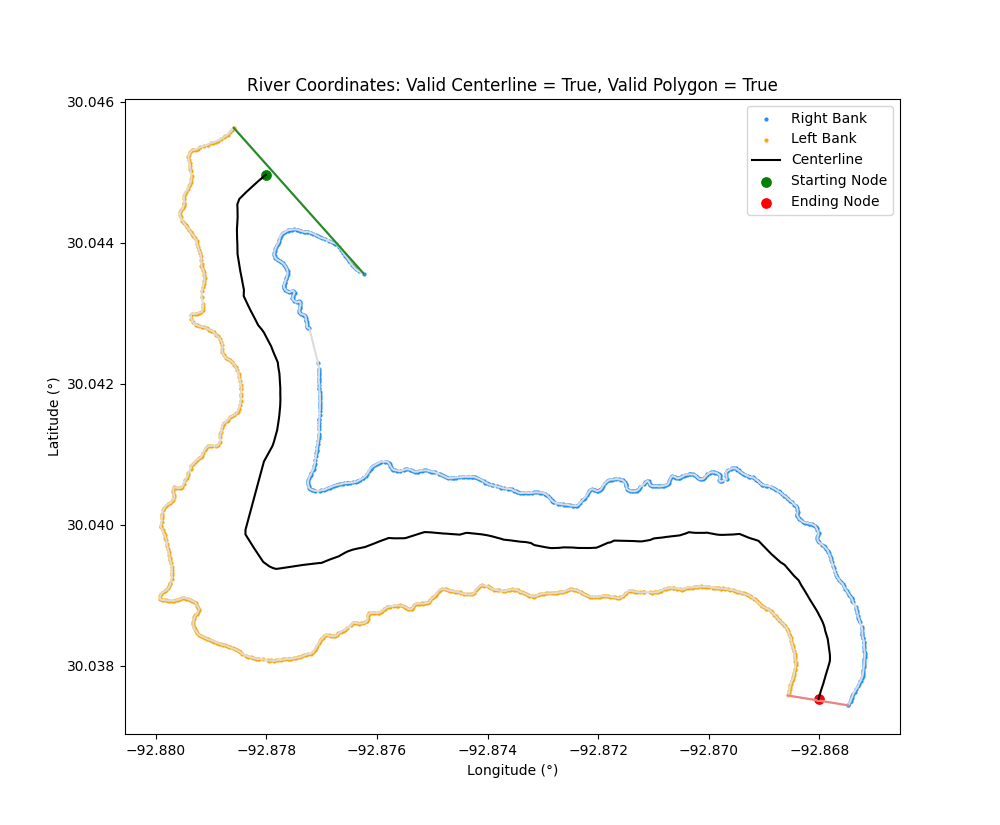
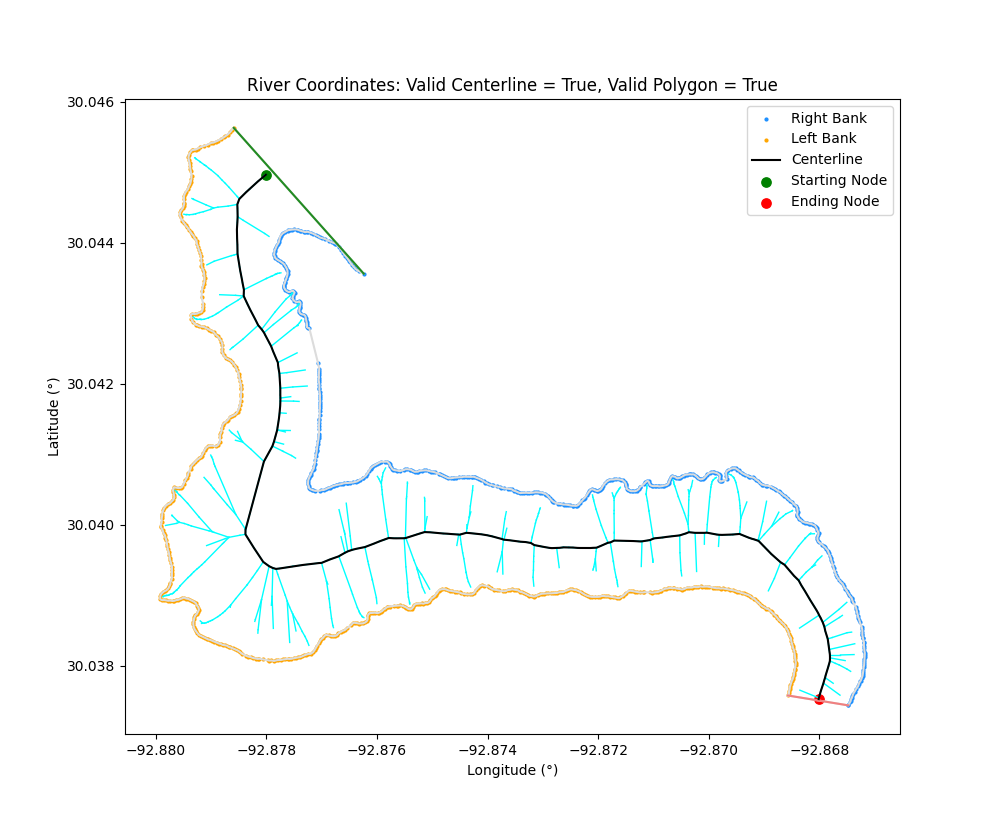
plotCenterline split into two for centerline and width

diff --git a/centerline_width/plotDiagrams.py b/centerline_width/plotDiagrams.py
@@ -14,39 +14,25 @@ logger.setLevel(logging.INFO)
 stream_handler = logging.StreamHandler()
 logger.addHandler(stream_handler)
 
-
 def plotCenterline(csv_data=None,
 					display_all_possible_paths=False, 
 					plot_title=None, 
 					save_plot_name=None, 
 					displayVoronoi=False,
-					displayCenterline=True,
-					plot_width_lines=False,
-					n_interprolate_centerpoints=None,
-					transect_span_distance=3,
-					gaussian_filter_sigma=None,
 					optional_cutoff=None):
+	# Plot Centerline of River
 
-	centerline_width.errorHandlingPlotCenterline(csv_data=csv_data,
-												display_all_possible_paths=display_all_possible_paths,
-												plot_title=plot_title,
-												save_plot_name=save_plot_name,
-												displayVoronoi=displayVoronoi,
-												displayCenterline=displayCenterline,
-												plot_width_lines=plot_width_lines,
-												n_interprolate_centerpoints=n_interprolate_centerpoints,
-												transect_span_distance=transect_span_distance,
-												gaussian_filter_sigma=gaussian_filter_sigma,
-												optional_cutoff=optional_cutoff)
+	#centerline_width.errorHandlingPlotCenterline(csv_data=csv_data,
+	#											display_all_possible_paths=display_all_possible_paths,
+	#											plot_title=plot_title,
+	#											save_plot_name=save_plot_name,
+	#											displayVoronoi=displayVoronoi,
+	#											optional_cutoff=optional_cutoff)
 
 	# Plot river
 	df = pd.read_csv(csv_data)
 	if optional_cutoff: # only include the first x amount of the data
 		df = df.head(optional_cutoff)
-
-	if plot_width_lines and n_interprolate_centerpoints is None:
-		# if plotting width, but n_interprolate_centerpoints is undefined, set to the size of the dataframe
-		n_interprolate_centerpoints = len(df)
 
 	left_bank_coordinates, right_bank_coordinates = centerline_width.leftRightCoordinates(df)
 	river_bank_polygon, top_river_line, bottom_river_line = centerline_width.generatePolygon(left_bank_coordinates, right_bank_coordinates)
@@ -101,7 +87,90 @@ def plotCenterline(csv_data=None,
 	valid_path_through = False
 	if shortest_path_points:
 		valid_path_through = True
-		if displayCenterline:
+		x = []
+		y = []
+		for k, v in shortest_path_points:
+			x.append(k)
+			y.append(v)
+		#plt.scatter(x, y, c="slategray", label="Centerline Coordinates", s=5)
+		plt.plot(*zip(*shortest_path_points), c="black", label="Centerline")
+
+	# Dynamically assign the starting and ending
+	if starting_node is not None: # error handling for when data is too small to generate centerline coordiantes
+		plt.scatter(starting_node[0], starting_node[1], c="green", label="Starting Node", s=45)
+		plt.scatter(ending_node[0], ending_node[1], c="red", label="Ending Node", s=45)
+
+	# Plot Title, Legends, and Axis Labels
+	if not plot_title:
+		plt.title("River Coordinates: Valid Centerline = {0}, Valid Polygon = {1}".format(valid_path_through, river_bank_polygon.is_valid))
+	else:
+		plt.title(plot_title)
+	plt.xlabel("Longitude (°)")
+	plt.ylabel("Latitude (°)")
+	plt.legend(loc="upper right")
+	plt.show()
+	if save_plot_name: fig.savefig(save_plot_name)
+
+def plotCenterlineWidth(csv_data=None,
+						plot_title=None, 
+						save_plot_name=None, 
+						displayTrueCenterline=True,
+						n_interprolate_centerpoints=None,
+						transect_span_distance=3,
+						gaussian_filter_sigma=None,
+						optional_cutoff=None):
+	# Plot Width Lines based on Centerline
+	# Plot river
+	df = pd.read_csv(csv_data)
+	if optional_cutoff: # only include the first x amount of the data
+		df = df.head(optional_cutoff)
+
+	if n_interprolate_centerpoints is None:
+		# if plotting width, but n_interprolate_centerpoints is undefined, set to the size of the dataframe
+		n_interprolate_centerpoints = len(df)
+
+	left_bank_coordinates, right_bank_coordinates = centerline_width.leftRightCoordinates(df)
+	river_bank_polygon, top_river_line, bottom_river_line = centerline_width.generatePolygon(left_bank_coordinates, right_bank_coordinates)
+	river_bank_voronoi = centerline_width.generateVoronoi(left_bank_coordinates, right_bank_coordinates)
+
+	# Plot river based on right/left bank coordinates
+	fig = plt.figure(figsize=(10,10))
+	ax = fig.add_subplot(111)
+	
+	# Isolate center line:
+	# Plot the ridge edges of the Voronoi polygons that lie within the river banks
+	# Find the start and ending node to find the centerline
+	starting_node, ending_node, x_ridge_point, y_ridge_point, start_end_points_dict = centerline_width.centerlinePath(river_bank_voronoi,
+																													river_bank_polygon, 
+																													top_river_line, 
+																													bottom_river_line)
+
+	# Plot River as a Polygon
+	plt.plot(*river_bank_polygon.exterior.xy, c="gainsboro")
+	plt.plot(*top_river_line.xy, c="forestgreen")
+	plt.plot(*bottom_river_line.xy, c="lightcoral")
+
+	# Plot colored river bank
+	scatter_plot_size = 4
+	x = []
+	y = []
+	for i in right_bank_coordinates: 
+		x.append(i[0])
+		y.append(i[1])
+	plt.scatter(x, y, c="dodgerblue", s=scatter_plot_size, label="Right Bank")
+	x = []
+	y = []
+	for i in left_bank_coordinates: 
+		x.append(i[0])
+		y.append(i[1])
+	plt.scatter(x, y, c="orange", s=scatter_plot_size, label="Left Bank")
+
+	# Find centerline from NetworkX
+	shortest_path_points = centerline_width.networkXGraphShortestPath(start_end_points_dict, starting_node, ending_node)
+	valid_path_through = False
+	if shortest_path_points:
+		valid_path_through = True
+		if displayTrueCenterline:
 			x = []
 			y = []
 			for k, v in shortest_path_points:
@@ -114,19 +183,16 @@ def plotCenterline(csv_data=None,
 	number_of_evenly_spaced_points = ""
 	if not shortest_path_points:
 		logger.info("Unable to generate width lines without a valid centerline")
-	if shortest_path_points and plot_width_lines:
+	if shortest_path_points:
 		number_of_evenly_spaced_points = "\nCenterline made of {0} Fixed Points, width lines generated every {1} points".format(n_interprolate_centerpoints, transect_span_distance)
 		if starting_node is not None: # error handling for when data is too small to generate centerline coordiantes
+			# recreate the centerline with evenly spaced points
 			evenly_spaced_centerline_coordinates = centerline_width.evenlySpacedCenterline(centerline_coordinates=shortest_path_points,
 																						number_of_fixed_points=n_interprolate_centerpoints)
-			right_width_coordinates, left_width_coordinates = centerline_width.riverWidthFromCenterlineCoordinates(csv_data=csv_data, 
-																												bank_polygon=river_bank_polygon,
-																												centerline_coordinates=evenly_spaced_centerline_coordinates,
-																												transect_span_distance=transect_span_distance,
-																												optional_cutoff=optional_cutoff)
 			if gaussian_filter_sigma is not None:
 				smoothed_centerline_coordinates = centerline_width.gaussianSmoothedCoordinates(centerline_coordinates=evenly_spaced_centerline_coordinates,
 																								gaussian_sigma=gaussian_filter_sigma)
+				# if using gaussian_filter, replace left/right coordinates with the smoothed variation
 				right_width_coordinates, left_width_coordinates = centerline_width.riverWidthFromCenterlineCoordinates(csv_data=csv_data, 
 																												bank_polygon=river_bank_polygon,
 																												centerline_coordinates=smoothed_centerline_coordinates,
@@ -138,7 +204,15 @@ def plotCenterline(csv_data=None,
 					x.append(k)
 					y.append(v)
 				plt.scatter(x, y, c="blue", label="Smoothed Centerline Coordinates, sigma={0}".format(gaussian_filter_sigma), s=20)
-				plt.plot(*zip(*smoothed_centerline_coordinates), c="lightblue", label="Smoothed Centerline, sigma={0}".format(gaussian_filter_sigma))
+				plt.plot(*zip(*smoothed_centerline_coordinates), "--", c="lightblue", label="Smoothed Centerline, sigma={0}".format(gaussian_filter_sigma))
+				change_in_length = (centerline_width.centerlineLength(centerline_coordinates=smoothed_centerline_coordinates)/centerline_width.centerlineLength(centerline_coordinates=shortest_path_points))*100
+				print("Smoothed length = {0} ({1}%)%".format(centerline_width.centerlineLength(centerline_coordinates=smoothed_centerline_coordinates), change_in_length))
+			else:
+				right_width_coordinates, left_width_coordinates = centerline_width.riverWidthFromCenterlineCoordinates(csv_data=csv_, 
+																														bank_polygon=river_bank_polygon,
+																														centerline_coordinates=evenly_spaced_centerline_coordinates,
+																														transect_span_distance=transect_span_distance,
+																														optional_cutoff=optional_cutoff)
 
 			x = []
 			y = []
@@ -146,7 +220,9 @@ def plotCenterline(csv_data=None,
 				x.append(k)
 				y.append(v)
 			plt.scatter(x, y, c="plum", label="Evenly Spaced Centerline Coordinates", s=20)
-			plt.plot(*zip(*evenly_spaced_centerline_coordinates), c="thistle", label="Evenly Spaced Centerline")
+			#plt.plot(*zip(*evenly_spaced_centerline_coordinates), "--", c="thistle", label="Evenly Spaced Centerline")
+			change_in_length = (centerline_width.centerlineLength(centerline_coordinates=evenly_spaced_centerline_coordinates)/centerline_width.centerlineLength(centerline_coordinates=shortest_path_points))*100
+			print("Evenly spaced length = {0} ({1}%)%".format(centerline_width.centerlineLength(centerline_coordinates=evenly_spaced_centerline_coordinates),change_in_length))
 
 			x = []
 			y = []

diff --git a/river_centerline_width_example.py b/river_centerline_width_example.py
@@ -9,11 +9,11 @@ if __name__ == "__main__":
 
 	# Valid Examples
 	cutoff = None
-	cutoff = 10
+	#cutoff = 10
 	#cutoff = 15 # valid centerline, valid path, valid polygon, valid starting node, valid ending node
 	#cutoff = 30
 	#cutoff = 100 # valid centerline, valid path, valid polygon, valid starting node, valid ending node
-	#cutoff = 550 # valid centerline, valid path, valid polygon, valid starting node, valid ending node
+	cutoff = 550 # valid centerline, valid path, valid polygon, valid starting node, valid ending node
 	# Invalid Examples
 	#cutoff = 5 # invalid centerline, invalid path, valid polygon, invalid starting node, invalid ending nodes
 	#cutoff = 250 # valid centerline, valid path, invalid polygon, valid starting node, valid ending nodes
@@ -21,36 +21,37 @@ if __name__ == "__main__":
 	#cutoff = 700 # invalid centerline, valid path, valid polgyon, invalid starting node, valid ending node
 	#cutoff = 1000 # invalid centerline, invalid path, invalid polgyon, invalid starting node, valid ending node
 
-	# Plot river banks
-	#centerline_width.plotCenterline(csv_data="data/river_coords.csv", 
-	#								save_plot_name="data/river_coords_centerline.png", 
-	#								display_all_possible_paths=False, 
-	#								displayVoronoi=False,
-	#								displayCenterline=True,
-	#								optional_cutoff=cutoff)
+	# Debugging:
+	#cutoff = 800 # TODO: debug lines on the outside of the polygon
 
+	# Plot river banks
 	centerline_width.plotCenterline(csv_data="data/river_coords.csv", 
-									save_plot_name="data/river_coords_width.png", 
-									displayCenterline=True,
-									plot_width_lines=True,
-									n_interprolate_centerpoints=100,
-									transect_span_distance=3,
-									gaussian_filter_sigma=None,
+									save_plot_name="data/river_coords_centerline.png", 
+									display_all_possible_paths=True, 
+									displayVoronoi=False,
 									optional_cutoff=cutoff)
+
+	centerline_width.plotCenterlineWidth(csv_data="data/river_coords.csv", 
+										save_plot_name="data/river_coords_width.png", 
+										displayTrueCenterline=True,
+										n_interprolate_centerpoints=20,
+										transect_span_distance=6,
+										gaussian_filter_sigma=3,
+										optional_cutoff=cutoff)
 	exit()
+
 	# Return the latitude/longtiude coordinates for the centerline
 	centerline_long_lat_coordinates = centerline_width.centerlineLatitudeLongitude(csv_data="data/river_coords.csv", 
 																					optional_cutoff=cutoff)
 	#print(centerline_long_lat_coordinates)
 
 	# Return the width of the river for each centerline vertex (distance from right, left, total)
-	river_width_dict = centerline_width.riverWidthFromCenterline(csv_data="data/river_coords.csv", 
-																centerline_coordinates=centerline_long_lat_coordinates,
-																save_to_csv="data/river_width.csv",
-																optional_cutoff=cutoff)
+	#river_width_dict = centerline_width.riverWidthFromCenterline(csv_data="data/river_coords.csv", 
+	#															centerline_coordinates=centerline_long_lat_coordinates,
+	#															save_to_csv="data/river_width.csv",
+	#															optional_cutoff=cutoff)
 
 	# Centerline Total Length (in degrees)
-	exit()
 	centerline_length = centerline_width.centerlineLength(centerline_coordinates=centerline_long_lat_coordinates)
 	print("Centerline Length (degrees) = {0}".format(centerline_length))
 

diff --git a/centerline_width/centerline.py b/centerline_width/centerline.py
@@ -167,7 +167,6 @@ def riverWidthFromCenterlineCoordinates(csv_data=None,
 
 	def intersectsTopOrBottomOfBank(point1, point2):
 		# returns True/False if the points lie on the 'false' top/bottom of the river
-		# TODO TODO
 		points_intersect_false_edges = False
 		# avoding floating point precession errors when determining if point lies within the line
 		if top_bank.distance(point1) < 1e-8 or bottom_bank.distance(point1) < 1e-8:
@@ -186,7 +185,7 @@ def riverWidthFromCenterlineCoordinates(csv_data=None,
 		sloped_line = LineString([(min_x, left_y), (max_x, right_y)]) # sloped line from the centerpoint
 		line_intersection_points = bank_polygon.exterior.intersection(sloped_line) # points where the line intersects the polygon
 		if len(line_intersection_points.geoms) == 2: # TODO: only collect the closest points
-			if not intersectsTopOrBottomOfBank(line_intersection_points.geoms[0], line_intersection_points.geoms[1]):
+			if not intersectsTopOrBottomOfBank(line_intersection_points.geoms[0], line_intersection_points.geoms[1]): # only save width lines that do not touch the artifical top/bottom
 				left_width_coordinates[centerline_point] = (line_intersection_points.geoms[0].x, line_intersection_points.geoms[0].y)
 				right_width_coordinates[centerline_point] = (line_intersection_points.geoms[1].x, line_intersection_points.geoms[1].y)
 		else:
@@ -200,7 +199,7 @@ def riverWidthFromCenterlineCoordinates(csv_data=None,
 			index_of_sorted_list = sorted(range(len(distances_between_centerline_and_point)),key=distances_between_centerline_and_point.__getitem__)
 			smallest_point = line_intersection_points.geoms[index_of_sorted_list[0]]
 			second_smallest_point = line_intersection_points.geoms[index_of_sorted_list[1]]
-			if not intersectsTopOrBottomOfBank(smallest_point, second_smallest_point):
+			if not intersectsTopOrBottomOfBank(smallest_point, second_smallest_point): # only save width lines that do not touch the artifical top/bottom
 				left_width_coordinates[centerline_point] = (smallest_point.x, smallest_point.y)
 				right_width_coordinates[centerline_point] = (second_smallest_point.x, second_smallest_point.y)
 

diff --git a/centerline_width/__init__.py b/centerline_width/__init__.py
@@ -20,6 +20,7 @@ from .centerline import riverWidthFromCenterline
 
 # plotDiagrams.py function calls
 from .plotDiagrams import plotCenterline
+from .plotDiagrams import plotCenterlineWidth
 
 # error_handling.py function calls
 from .error_handling import errrorHandlingConvertColumnsToCSV

diff --git a/README.md b/README.md
@@ -147,7 +147,6 @@ plotCenterline(csv_data=None,
 ```python
 import centerline_width
 centerline_width.plotCenterline(csv_data="data/river_coords.csv", 
-				save_plot_name="data/river_coords.png", 
 				display_all_possible_paths=False, 
 				displayVoronoi=False, 
 				optional_cutoff=550)
@@ -155,42 +154,55 @@ centerline_width.plotCenterline(csv_data="data/river_coords.csv",
 Output:
 ![river_coords_centerline+png](https://raw.githubusercontent.com/cyschneck/river-geometry/main/data/river_coords_centerline.png)
 
+## Future Work: Coming Soon
 ### Plot the centerline width
 Plot the width of the river based on the centerline
+
+Display Centerline at even intervals Voronoi generated centerline
 ```
-plotCenterline(csv_data=None,
+plotCenterlineWidth(csv_data=None,
 		plot_title=None, 
 		save_plot_name=None, 
-		displayCenterline=True,
+		displayTrueCenterline=True,
 		plot_width_lines=False,
 		n_interprolate_centerpoints=None,
 		transect_span_distance=3,
+		gaussian_filter_sigma=None,
 		optional_cutoff=None)
 ```
-COMING SOON:
 * **[REQUIRED]** csv_data (string): File location of the text file to convert
 * [OPTIONAL] plot_title (string): Change plot title, defaults to "River Coordinates: Valid Centerline = True/False, Valid Polygon = True/False"
 * [OPTIONAL] save_plot_name (string): Save the plot with a given name and location
-* [OPTIONAL] displayCenterline (boolean): Display generated centerline
-* [OPTIONAL] plot_width_lines (boolean): Display Centerline at even intervals Voronoi generated centerline
+* [OPTIONAL] displayTrueCenterline (boolean): Display generated true centerline based on Voronoi diagrams
 * [OPTIONAL] n_interprolate_centerpoints (int): Recreate centerline coordinates with n evenly spaced points, defaults to the number of rows in the csv file
-* [OPTIONAL] transect_span_distance (int): Sum up n amount of points around a centerpoint to determine the slope (increase to decrease the impact of sudden changes), defaults to 6, must be greater than 2 (since the slope is found from the difference in position between two points)
+* [OPTIONAL] gaussian_filter_sigma (int): <>
+* [OPTIONAL] transect_span_distance (int): Sum up n amount of points around a centerpoint to determine the slope (increase to decrease the impact of sudden changes), defaults to 6, must be greater than 2 (since the slope is found from the difference in position between two points), measured orthogonal to the centerline
 
+Transect span distance:
 ![transect_span_distance](https://user-images.githubusercontent.com/22159116/227870492-69d105b2-0d3e-4d50-90d9-e938400a58fb.png)
 
 ```
 import centerline_width
-centerline_width.plotCenterline(csv_data="data/river_coords.csv", 
-				save_plot_name="data/river_coords_width.png", 
-				displayCenterline=True,
-				plot_width_lines=True,
-				n_interprolate_centerpoints=10000,
-				transect_span_distance=100,
-				optional_cutoff=550)
+centerline_width.plotCenterlineWidth(csv_data="data/river_coords.csv", 
+									displayTrueCenterline=True,
+									n_interprolate_centerpoints=20,
+									transect_span_distance=6,
+									gaussian_filter_sigma=3,
+									optional_cutoff=cutoff)
 ```
 ![river_coords_width+png](https://raw.githubusercontent.com/cyschneck/river-geometry/main/data/river_coords_width.png)
 
-## Future Work:
+### Evenly Spaced Centerline
+Returns the centerline calculated but evenly spaced with a fixed number of points, instead of the points generated by the Vornoi diagram
+```
+evenlySpacedCenterline(centerline_coordinates=None, number_of_fixed_points=10)
+```
+### Smooth Centerline
+Returns a gaussian smoothed centerline
+```
+gaussianSmoothedCoordinates(centerline_coordinates=None, gaussian_sigma=None)
+```
+
 ### Return Width of River
 ```
 riverWidthFromCenterline()
@@ -266,8 +278,12 @@ If the data is too small, a centerline and its coordinates cannot not be found (
 ![example+png](https://raw.githubusercontent.com/cyschneck/river-geometry/main/data/doc_examples/invalid_example2.png)
 Can be fixed by expanding the data until the polygon is large enough to contain at least two different vertex points
 
+## Developer Notes: Tech Debt
+* Combine backend functionality for plotCenterline and plotCenterlineWidth into a shared component
+* README overview of all three types of centerlines (voronoi generated, evenly spaced, gaussian smoothed)
+
 ## Citations
-Based on the work in R:
+Based on similar work written in R:
 
 >Golly, A. and Turowski, J. M.: Deriving principal channel metrics from bank and long-profile geometry with the R package cmgo, Earth Surf. Dynam., 5, 557-570, https://doi.org/10.5194/esurf-5-557-2017, 2017.
 
